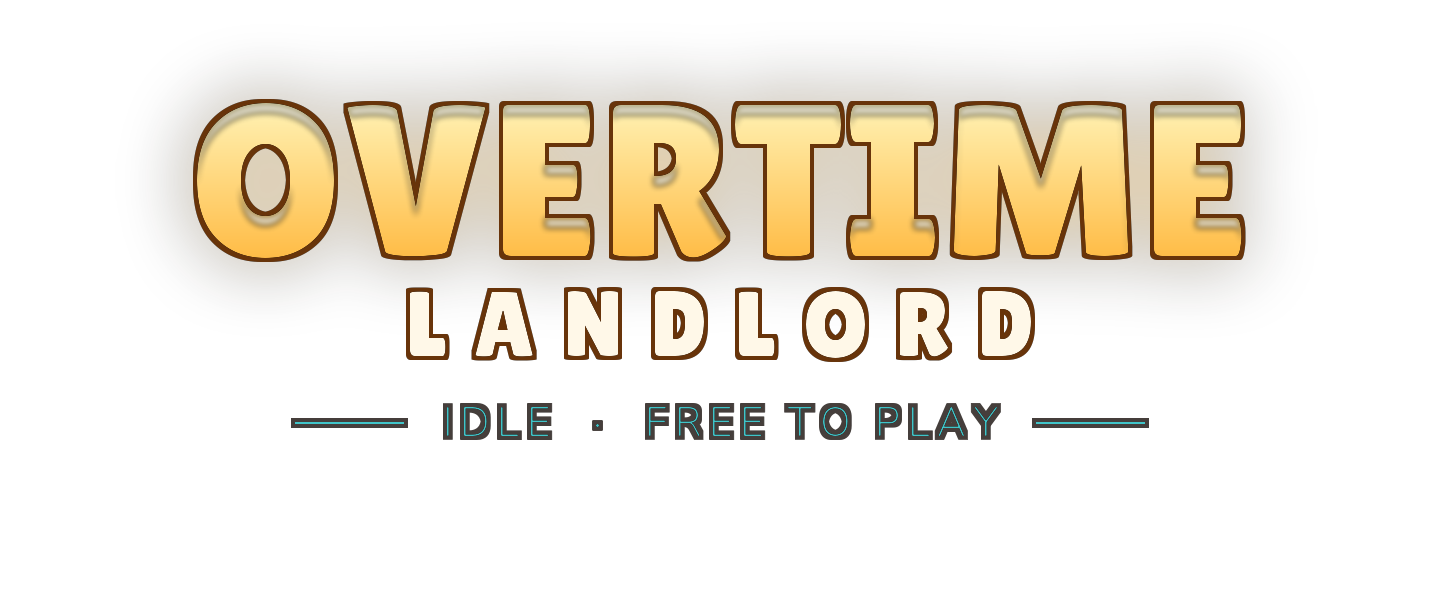
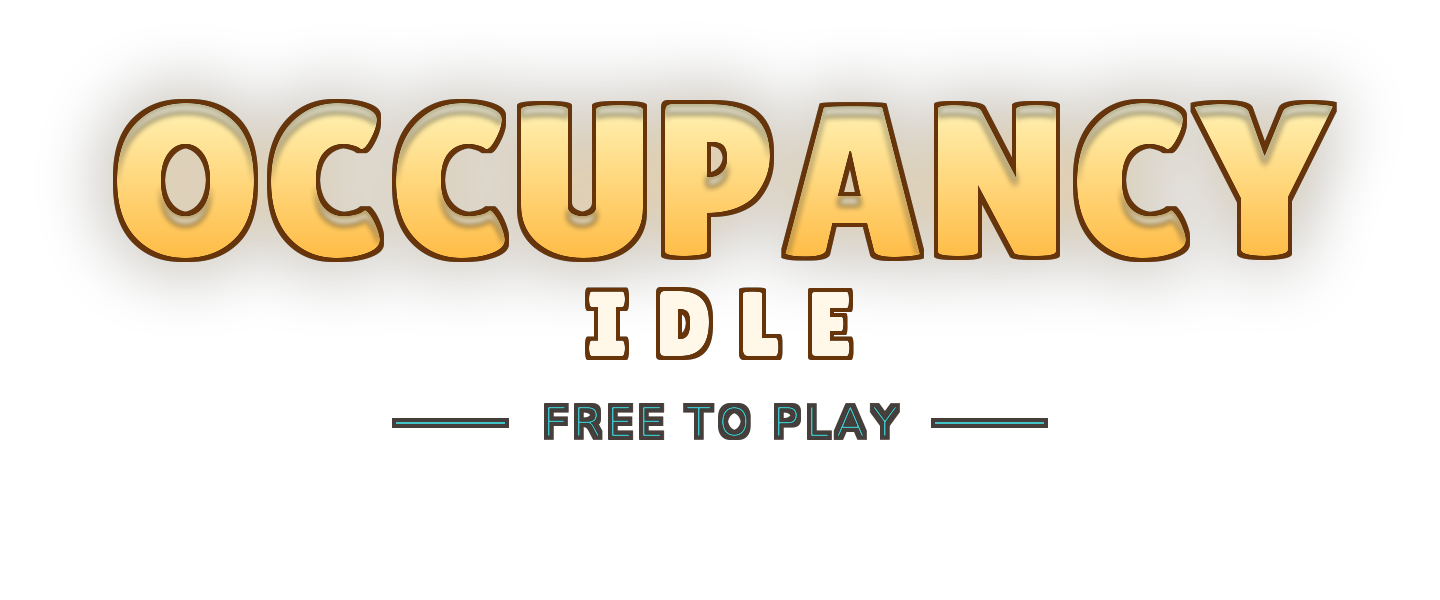
Rename Overtime Landlord: Idle to OCCUPANCY, per Blaze
project.godot's config/name, export_presets.cfg's file_description, README
and the title_screen.gd comments now say OCCUPANCY, per ops/PUNCHLIST.md:
"Occupancy is the metric an idle landlord actually optimises — and it is what
the adult fork is really about, without one crossing word." config/description
still names "Overtime Landlord" deliberately, since that line describes the
SFW parent this is a conversion of.

The wordmark is a real re-render, not a string swap: ops/overtime_title.py's
mark() now bakes OCCUPANCY / IDLE (was OVERTIME / LANDLORD), and the caption
line drops its own redundant "IDLE ·" now that IDLE is said by the wordmark's
second line, leaving "FREE TO PLAY". Regenerated via
`python3 ops/overtime_title.py mark` and installed to assets/title/mark.png.

Changed region(s): [[0.0625, 0.15, 0.9375, 0.48], [0.2812, 0.48, 0.7188, 0.6], [0.1875, 0.66, 0.8125, 0.75]]

diff --git a/overtime-idle-godot/README.md b/overtime-idle-godot/README.md
@@ -1,4 +1,4 @@
-# Overtime Landlord: Idle — Godot 4.7
+# OCCUPANCY — Godot 4.7
 
 The Godot rebuild of the HTML prototype in `play/overtime-idle/` (kept as the reference).
 Same design (`ops/adult_forks/overtime_idle.md`), same numbers, a different shell: a
